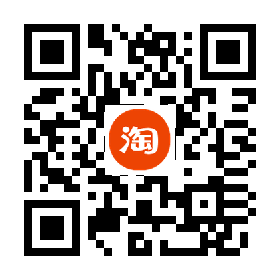
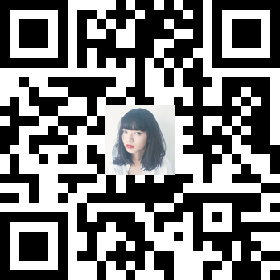
二维码生成再次修改封装, 可以生成带有样式的二维码了

diff --git a/utils/QRCode.py b/utils/QRCode.py
@@ -80,7 +80,51 @@ class QRCode:
         ERROR_CORRECT_Q = 3
         ERROR_CORRECT_H = 2
     """
-    def make(self, content, logo = None, size = 200, error_correction = 2):
+    # def make(self, content, logo = None, size = 200, error_correction = 2):
+    #     qr = qrcode.QRCode(
+    #         version=1,
+    #         error_correction=error_correction,
+    #         box_size=12,
+    #         border=0,
+    #     )
+    #     qr.add_data(content)
+    #     qr.make(fit=True)
+    #     # qr.make()
+    #     img = qr.make_image()
+    #     img = self.pasteLogo(img, logo)
+    #     return img
+
+    """
+    生成二维码
+    """
+    def make(self, content, logo = None, style = 'normal', error_correction = 2):
+        img = None
+        if style == 'normal':
+            img = self.normal(content, logo, error_correction)
+        elif style == 'halftone':
+            img = self.halftone(content, logo)
+        elif style == 'halftoneColorful':
+            img = self.halftoneColorful(content, logo)
+        elif style == 'halftonePixel':
+            img = self.halftonePixel(content, logo)
+        elif style == 'qart':
+            img = self.qart(content, logo)
+        elif style == 'qartDataOnly':
+            img = self.qartDataOnly(content, logo)
+        elif style == 'halfArt':
+            img = self.halfArt(content, logo)
+        elif style == 'halfArtDataOnly':
+            img = self.halfArtDataOnly(content, logo)
+
+        return img
+
+
+
+
+    """
+    生成普通二维码
+    """
+    def normal(self, content, logo,  error_correction = 2):
         qr = qrcode.QRCode(
             version=1,
             error_correction=error_correction,
@@ -90,9 +134,8 @@ class QRCode:
         qr.add_data(content)
         qr.make(fit=True)
         # qr.make()
-        img = qr.make_image()
-        img = self.pasteLogo(img, logo)
-        return img
+        img =  qr.make_image()
+        return self.pasteLogo(img, logo)
 
     """
     给二维码贴logo
@@ -156,56 +199,63 @@ class QRCode:
     @ return: Image
     """
     def halftone(self, content, background_image):
-        painter = self.getPainter(content)
-        return QrHalftonePrinter.print(painter, img = background_image, point_width=self.POINT_PIXEL, colorful=False)
+        if background_image:
+            painter = self.getPainter(content)
+            return QrHalftonePrinter.print(painter, img = background_image, point_width=self.POINT_PIXEL, colorful=False)
 
     """
     Halftone colorful
     @ return : Image
     """
     def halftoneColorful(self, content, background_image):
-        painter = self.getPainter(content)
-        return QrHalftonePrinter.print(painter, img=background_image, point_width=self.POINT_PIXEL)
+        if background_image:
+            painter = self.getPainter(content)
+            return QrHalftonePrinter.print(painter, img=background_image, point_width=self.POINT_PIXEL)
 
     """
     Halftone pixel
     @ return : Image
     """
     def halftonePixel(self, content, background_image):
-        painter = self.getPainter(content)
-        return QrHalftonePrinter.print(painter, img=background_image, point_width=self.POINT_PIXEL, colorful=False, pixelization=True)
+        if background_image:
+            painter = self.getPainter(content)
+            return QrHalftonePrinter.print(painter, img=background_image, point_width=self.POINT_PIXEL, colorful=False, pixelization=True)
 
     """
     Qart
     @return : Image
     """
     def qart(self, content, background_image):
-        artist = self.getArtist(content, background_image)
-        return QrImagePrinter.print(artist, point_width=self.POINT_PIXEL)
+        if background_image:
+            artist = self.getArtist(content, background_image)
+            return QrImagePrinter.print(artist, point_width=self.POINT_PIXEL)
 
     """
     Qart data only
     @ return : Image
     """
     def qartDataOnly(self, content, background_image):
-        artist = self.getArtist(content, background_image, True)
-        return QrImagePrinter.print(artist, point_width=self.POINT_PIXEL)
+        if background_image:
+            artist = self.getArtist(content, background_image, True)
+            return QrImagePrinter.print(artist, point_width=self.POINT_PIXEL)
 
     """
     halfArt
     @ return : Image
     """
     def halfArt(self, content, background_image):
-        artist = self.getArtist(content, background_image)
-        return QrHalftonePrinter.print(artist, point_width=self.POINT_PIXEL)
+        if background_image:
+            artist = self.getArtist(content, background_image)
+            return QrHalftonePrinter.print(artist, point_width=self.POINT_PIXEL)
 
     """
     halfArt data only
     @return : Image
     """
     def halfArtDataOnly(self, content, background_image):
-        artist = self.getArtist(content, background_image, True)
-        return QrHalftonePrinter.print(artist, point_width=self.POINT_PIXEL)
+        if background_image:
+            artist = self.getArtist(content, background_image, True)
+            return QrHalftonePrinter.print(artist, point_width=self.POINT_PIXEL)
 
 
 if __name__ == '__main__':

diff --git a/utils/GUIClient.py b/utils/GUIClient.py
@@ -305,8 +305,9 @@ class GUIClient(QMainWindow):
         content = self.singleQRCodeTextEdit.toPlainText()   # 获取出入内容
         if content:
             # 生成二维码图像
+            # errorCorrectionValue 还要转化一次
             QRTool = QRCode()
-            return QRTool.make(content, self.logoPath)
+            return QRTool.make(content, self.logoPath, self.style)
 
     """
     单个二维码预览
